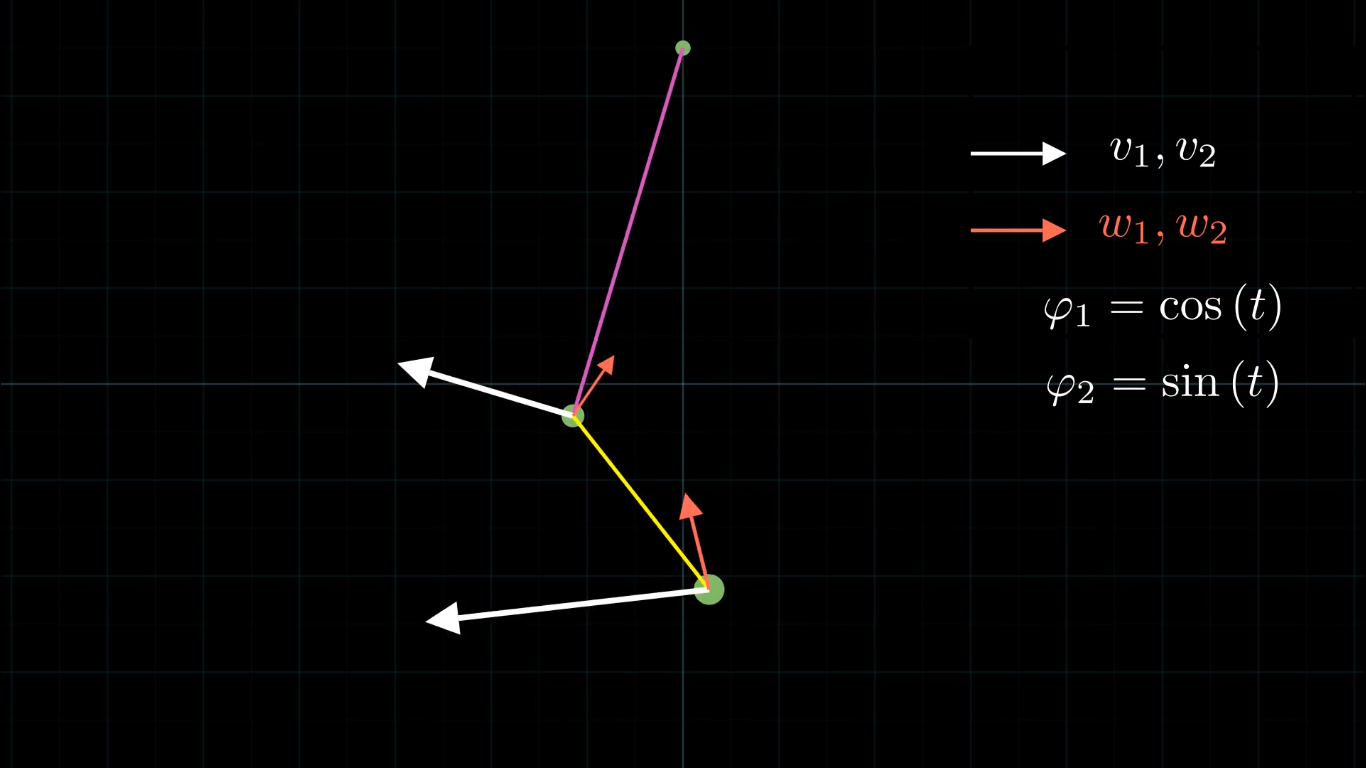
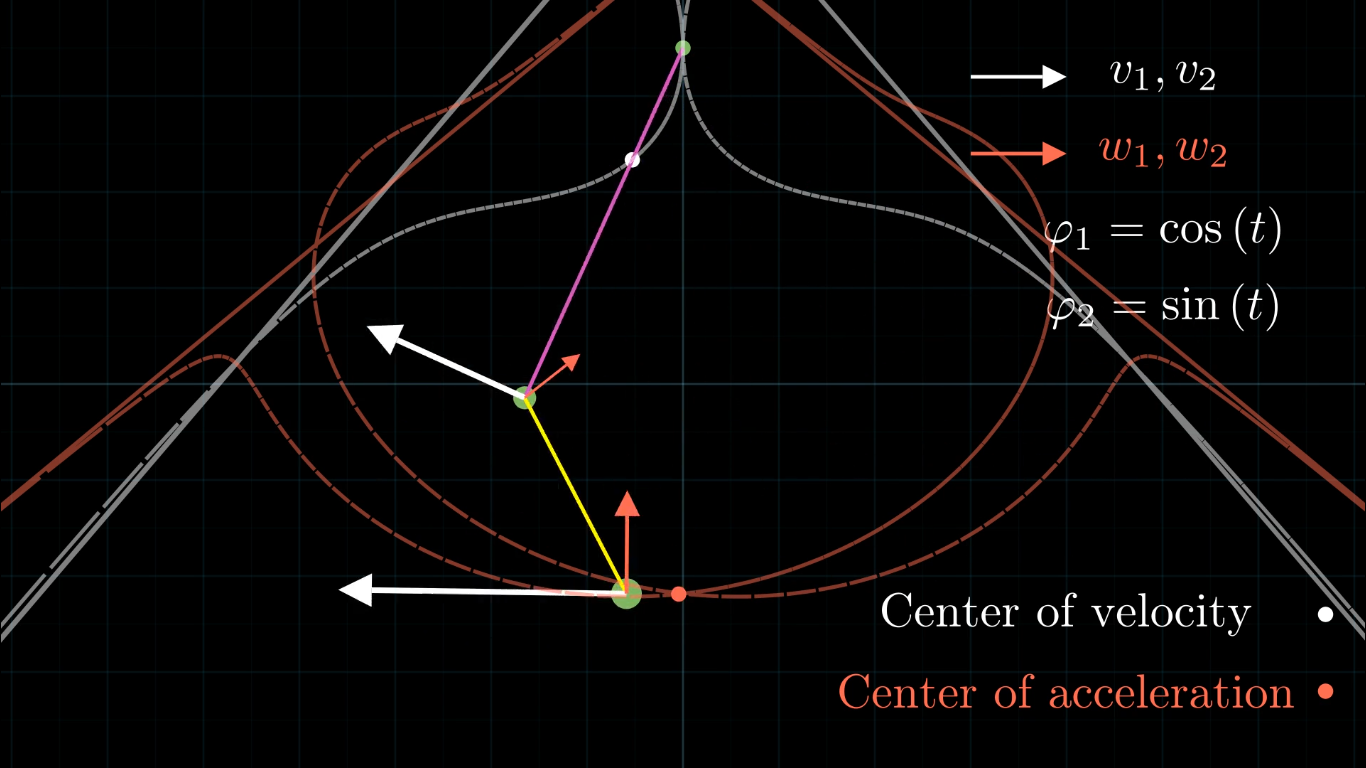
Adding trajectory lines of ICV and ICA

diff --git a/double_pendulum.py b/double_pendulum.py
@@ -1,5 +1,4 @@
 from manimlib.imports import *
-from numpy import sin, cos
 import sympy as sp
 import numpy as np
 
@@ -20,33 +19,42 @@ class DoublePendulum(Scene):
         self.wait()
  
     def Animation(self):
+
+        ## Position of center of coordinates
+        center = np.array([0, 3.5, 0])
+
+        ## Lenght of rods
         l1 = 4
         l2 = 2.3
 
-        center = np.array([0, 3.5, 0])
         scale_v = 0.5
         scale_w = 0.2
 
         phi1, phi2, t = sp.symbols('phi1 phi2 t')
         
+        ## Angles given as functions of time
         phi1 = sp.cos(t)
         phi2 = sp.sin(t)
 
+        ## Coordinates of points A and B
         x1 = l1 * sp.sin(phi1) + center[0]
         y1 = -l1 * sp.cos(phi1) + center[1]
         x2 = l1 * sp.sin(phi1) + l2 * sp.sin(phi1 + phi2) + center[0]
         y2 = -l1 * sp.cos(phi1) - l2 * sp.cos(phi1 + phi2) + center[1]
 
+        ## Velocities of points A and B
         vx1 = sp.diff(x1)
         vy1 = sp.diff(y1)
         vx2 = sp.diff(x2)
         vy2 = sp.diff(y2)
 
+        ## Accelerations of points A and B
         wx1 = sp.diff(vx1)
         wy1 = sp.diff(vy1)
         wx2 = sp.diff(vx2)
         wy2 = sp.diff(vy2)
         
+        ## Turn our sympy expressions into functions
         x1_func = sp.lambdify(t, x1, "numpy")
         y1_func = sp.lambdify(t, y1, "numpy")
         x2_func = sp.lambdify(t, x2, "numpy")
@@ -62,10 +70,46 @@ class DoublePendulum(Scene):
         wx2_func = sp.lambdify(t, wx2, "numpy")
         wy2_func = sp.lambdify(t, wy2, "numpy")
 
+        ## Function to intersect two lines given by their direction
+        ## vectors and a point
+        ## If the direction vectors are parallel, then we find the
+        ## the center of velocities/accelerations using the
+        ## proportionality of velocity and distance from the ICV 
+        ## to create similar triangles
+        def intersect(v1, v2, p1, p2):
+            if (v1[0] * v2[1] - v1[1] * v2[0] == 0):
+                tmp = v1[0]
+                v1[0] = -v1[1]
+                v1[1] = tmp
+                tmp = v2[0]
+                v2[0] = -v2[1]
+                v2[1] = tmp
+
+                # print(intersect(p2 - p1, (p2 + v2) - (p1 + v1),\
+                #         p1, p1 + v1))
+                return intersect(p2 - p1, (p2 + v2) - (p1 + v1),\
+                        p1, p1 + v1)
+        
+            b = (p1[0] * v1[1] - p1[1] * v1[0]\
+                    - p2[0] * v1[1] + p2[1] * v1[0]) /\
+                    (v2[0] * v1[1] - v2[1] * v1[0])
+        
+            if (v1[0] != 0):
+                a = (p2[0] + b * v2[0] - p1[0]) / v1[0]
+            elif (v2[0] != 0):
+                a = (p2[1] + b * v2[1] - p1[1]) / v1[1]
+        
+            inter = p1 + a * v1
+            return np.array([inter[0], inter[1], 0])
+
+        ## Time step and time duration
         dt = 0.01
         t = np.arange(0.0, 30, dt)
         t[len(t) - 1] = 0.000000001
 
+        ## Create moving objects for points A and B, their velocities,
+        ## their accelerations, and for the trajectories of 
+        ## the instantaneous centers of velocity and acceleration
         p1=VMobject()
         p1.set_points_as_corners([*[[x1_func(t0), y1_func(t0), 0] for t0 in t]])
         p1.make_smooth().set_stroke(None, 2)
@@ -90,6 +134,20 @@ class DoublePendulum(Scene):
         w2.set_points_as_corners([*[[wx2_func(t0), wy2_func(t0), 0] for t0 in t]])
         w2.make_smooth().set_stroke(None, 2)
 
+        vc = VMobject()
+        vc.set_points([*[intersect(np.array([\
+                vy1_func(t0), -vx1_func(t0)]),\
+                np.array([vy2_func(t0), -vx2_func(t0)]),\
+                np.array([x1_func(t0), y1_func(t0)]),\
+                np.array([x2_func(t0), y2_func(t0)])) for t0 in t]])
+
+        wc = VMobject(color=RED)
+        wc.set_points([*[intersect(np.array([\
+                wy1_func(t0), -wx1_func(t0)]),\
+                np.array([wy2_func(t0), -wx2_func(t0)]),\
+                np.array([x1_func(t0), y1_func(t0)]),\
+                np.array([x2_func(t0), y2_func(t0)])) for t0 in t]])
+
         arrow1 = Arrow()
         arrow1.put_start_and_end_on(p2.get_end(), v2.get_end())
         arrow1.add_updater(lambda m: m.put_start_and_end_on(p2.get_end(),\
@@ -110,9 +168,25 @@ class DoublePendulum(Scene):
         arrow6.add_updater(lambda m: m.put_start_and_end_on(p2.get_end(),\
                 p2.get_end() + w2.get_end() * scale_w))
  
+        ## Creating 3 points and 2 lines that will be our pendulum
         zero = Dot(color=GREEN)
         zero.move_to(center)
         self.add(zero)
+
+        dot1 = Dot(color=GREEN)
+        dot1.move_to(p1.get_end())
+        dot1.scale(1.5)
+        dot1.add_updater(lambda m: m.move_to(p1.get_end()))
+
+        dotvc = Dot()
+        dotvc.move_to(vc.get_end())
+        dotvc.add_updater(lambda m: m.move_to(vc.get_end()))
+        self.add(dotvc)
+
+        dotwc = Dot(color=RED)
+        dotwc.move_to(wc.get_end())
+        dotwc.add_updater(lambda m: m.move_to(wc.get_end()))
+        self.add(dotwc)
 
         dot1 = Dot(color=GREEN)
         dot1.move_to(p1.get_end())
@@ -136,29 +210,37 @@ class DoublePendulum(Scene):
         line2.add_updater(lambda m: m.become(Line(dot1.get_center(),dot2.get_center(),color=YELLOW)))
         self.add(dot2,line2)
 
-        rectangle = Rectangle(color=BLACK, width=4, height=3)
-        rectangle.move_to(TOP * 0.5 + 5 * RIGHT)
-        self.add(rectangle)
-
+        ## Legend
         arrow3 = Arrow()
-        arrow3.put_start_and_end_on(TOP * 0.6 + 3 * RIGHT, TOP * 0.6 + 4 * RIGHT)
+        arrow3.put_start_and_end_on(TOP * 0.8 + 3 * RIGHT, TOP * 0.8 + 4 * RIGHT)
         v_tex = TexMobject("v_1, v_2")
-        v_tex.move_to(TOP * 0.6 + 5 * RIGHT)
+        v_tex.move_to(TOP * 0.8 + 5 * RIGHT)
 
         w_tex = TexMobject("w_1, w_2", color=RED)
-        w_tex.move_to(TOP * 0.4 + 5 * RIGHT)
+        w_tex.move_to(TOP * 0.6 + 5 * RIGHT)
         arrow4 = Arrow(color=RED)
-        arrow4.put_start_and_end_on(TOP * 0.4 + 3 * RIGHT, TOP * 0.4 + 4 * RIGHT)
+        arrow4.put_start_and_end_on(TOP * 0.6 + 3 * RIGHT, TOP * 0.6 + 4 * RIGHT)
 
         eq1 = TexMobject(r"\varphi_1 = " + sp.latex(phi1))
         eq2 = TexMobject(r"\varphi_2 = " + sp.latex(phi2))
-        eq1.move_to(TOP * 0.2 + 5 * RIGHT)
-        eq2.move_to(5 * RIGHT)
+        eq1.move_to(TOP * 0.4 + 5 * RIGHT)
+        eq2.move_to(TOP * 0.2 + 5 * RIGHT)
+
+        vc_tex = TexMobject(r"\text{Center of velocity}")
+        vc_tex.move_to(BOTTOM * 0.6 + 4 * RIGHT)
+        dotvc_legend = Dot()
+        dotvc_legend.move_to(BOTTOM * 0.6 + 6.7 * RIGHT)
+
+        wc_tex = TexMobject(r"\text{Center of acceleration}", color=RED)
+        wc_tex.move_to(BOTTOM * 0.8 + 4 * RIGHT)
+        dotwc_legend = Dot(color=RED)
+        dotwc_legend.move_to(BOTTOM * 0.8 + 6.7 * RIGHT)
 
         self.play(Write(arrow1), Write(arrow2), Write(arrow5), Write(arrow6))
-        self.play(Write(arrow3), Write(v_tex))
-        self.play(Write(arrow4), Write(w_tex))
+        self.play(Write(arrow3), Write(v_tex), Write(arrow4), Write(w_tex))
         self.play(Write(eq1), Write(eq2))
+        self.play(Write(dotvc_legend), Write(vc_tex),\
+               Write(dotwc_legend), Write(wc_tex))
  
         p1.fade(1)
         p2.fade(1)
@@ -167,6 +249,11 @@ class DoublePendulum(Scene):
         w1.fade(1)
         w2.fade(1)
 
+        ## Opacity of the trajectory lines
+        vc.fade(0.5)
+        wc.fade(0.5)
+
         self.play(ShowCreation(p1), ShowCreation(p2), ShowCreation(v1),\
                 ShowCreation(v2), ShowCreation(w1), ShowCreation(w2),\
+                ShowCreation(vc), ShowCreation(wc),\
                 rate_func=linear,run_time=30)

diff --git a/README.md b/README.md
@@ -8,7 +8,7 @@
 
 ![Alt text](Images/diagram.png?raw=true)
 
-Given the angles φ₁ and φ₂ as functions of time, we show the positions of point A and B, and also the velocity and acceleration vectors at every point in time.
+Given the angles φ₁ and φ₂ as functions of time, we show the positions of point A and B, and also the velocity and acceleration vectors at every point in time. Also, we draw the trajectories of the instantaneous centers of zero velocity and acceleration.
 
 To do this, we use the python library [SymPy](https://www.sympy.org/en/index.html) to differentiate the position vectors of both points. This way, it's possible to input any two function that are twice differentiable.
 
